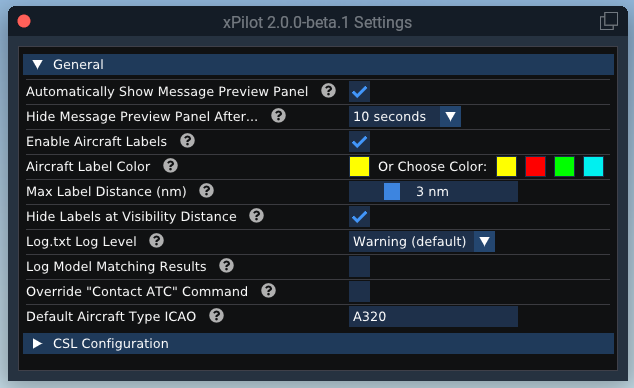
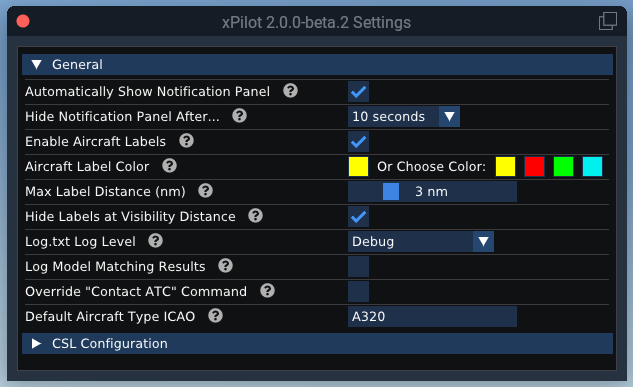
Update X-Plane settings window screenshot; update verbiage on notification panel

diff --git a/docs/xplane.md b/docs/xplane.md
@@ -10,9 +10,9 @@ All xPilot Plugin settings are saved to a file named `Config.json` in the `X-Pla
 
 ![X-Plane Settings](media/XplaneSettings.png)
 
-* **Automatically Show Message Preview Panel**<br/>If this option is enabled, if a new radio text message is received, it will display in a small translucent panel at the top right of the X-Plane window.
+* **Automatically Show Notification Panel**<br/>If this option is enabled, if a new radio text message is received, it will display in a small translucent panel at the top right of the X-Plane window.
 
-* **Hide Message Preview Panel After...**<br/>This option sets how long the message preview panel should stay open (in seconds) before it automatically disappears.
+* **Hide Notification Panel After...**<br/>This option sets how long the notification panel should stay open (in seconds) before it automatically disappears.
 
 * **Enable Aircraft Labels**<br/>If this option is enabled, floating callsign labels will be placed above all aircraft in the sim.
 
@@ -66,7 +66,7 @@ Available X-Plane Commands:
 
 * **Toggle Aircraft Labels**<br/>Bind `xPilot: Toggle Aircraft Labels` command to show or hide aircraft labels.
 
-* **Toggle Message Preview Panel**<br/>Bind `xPilot: Toggle Notification Panel` command to show or hide the message preview panel.
+* **Toggle Notification Panel**<br/>Bind `xPilot: Toggle Notification Panel` command to show or hide the notification panel.
 
 * **Toggle Message Console**<br/>Bind `xPilot: Toggle Message Console` command to show or hide the text message console.
 
